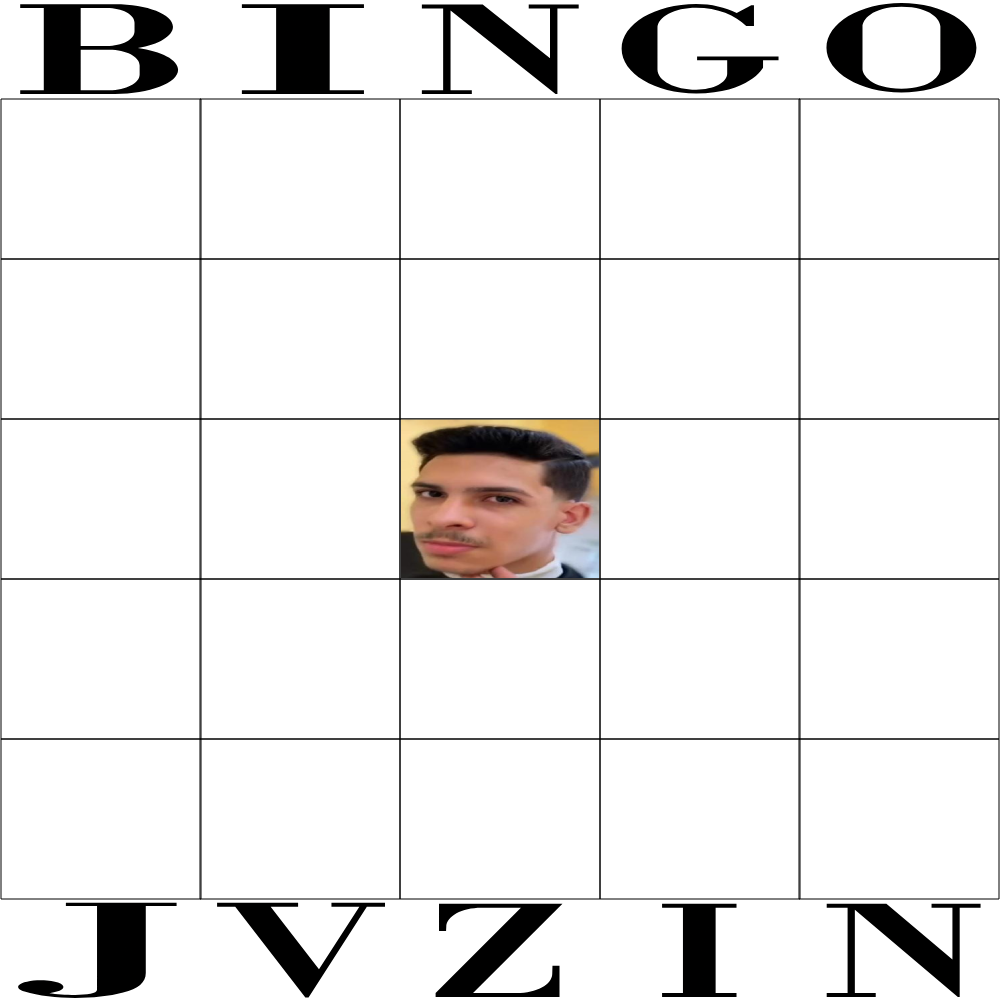
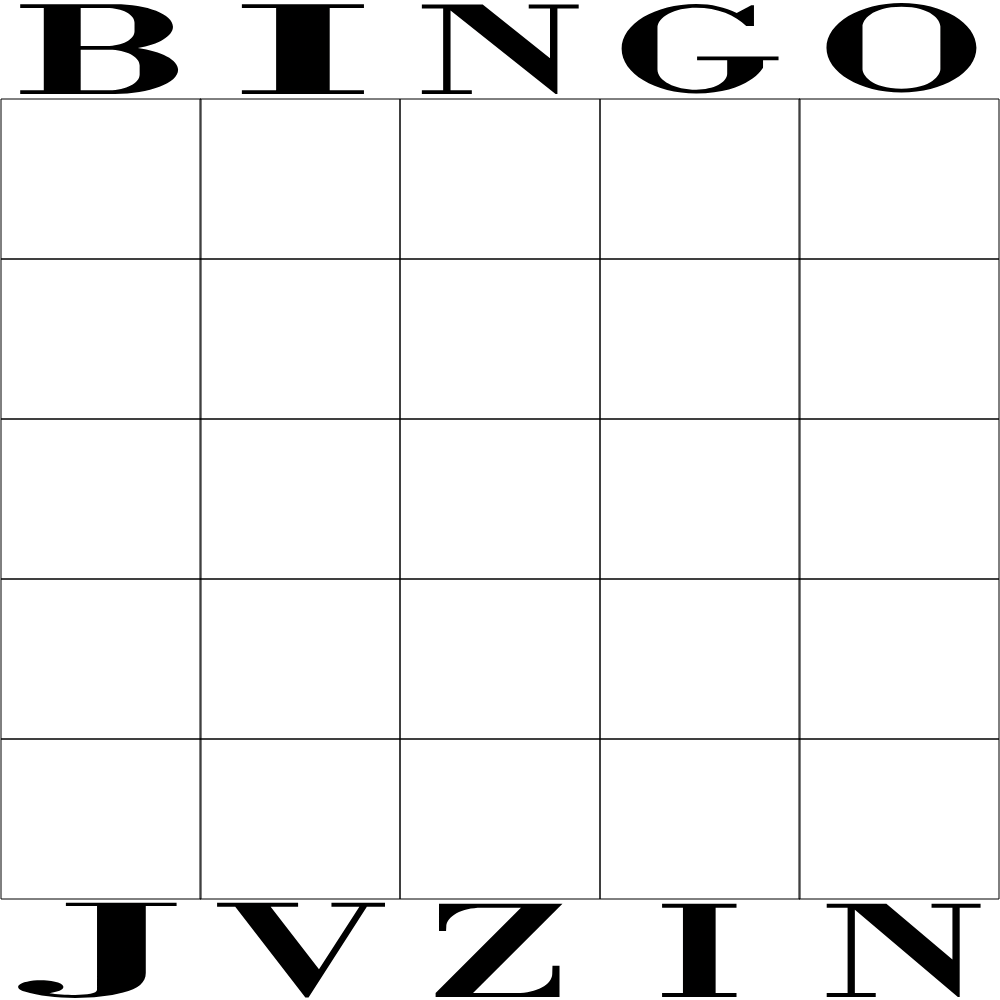
feat: added zustand to jvzin bingo

Changed region(s): [[0.403, 0.403, 0.62, 0.589]]

diff --git a/src/app/jvzin/page.tsx b/src/app/jvzin/page.tsx
@@ -2,66 +2,46 @@
 
 import { useEffect, useState } from "react";
 import Image from "next/image";
-import { Play, Repeat } from "lucide-react";
+import { BrushCleaning, Dices, Play } from "lucide-react";
+import { create } from "zustand";
+import { persist } from "zustand/middleware";
+
+interface BingoState {
+  shuffledTiles: string[];
+  shufflePhoto: number;
+  markedTiles: string[];
+  tileRotations: Record<string, number>;
+  createdAt: number | null;
+  isContinuing: boolean;
+  _hasHydrated: boolean;
+  
+  generateNewBoard: (phrases: string[]) => void;
+  toggleTile: (tile: string, degree: number) => void;
+  resetGame: () => void;
+  setContinuing: (value: boolean) => void;
+  setHasHydrated: (state: boolean) => void;
+}
 
 const bingoPhrases = [
-  "Negao vai se lasca",
-  "Negao vai pro inferno",
-  "Vou ja come um amori",
-  "Oia esse cara",
-  "La ele",
-  "Ah nao, vamo joga no inferno",
-  "Sai dai",
-  ".",
-  "Nau",
-  "E um churras? @André",
-  "Vou já assistir um sobrenatural", 
-  "Pegue na minha caceta", 
-  "Conta aqui pro tio joao vicente", 
-  "É um gtazin @Fredson Luiz @Lyncxxx", 
-  "Ne meu fi não", 
-  "Que isso rpz", 
-  "Rpz, vao se lascar vcs tudin", 
-  "Vai tu, quenga", 
-  "O Lyncu não oferece um copo d'água", 
-  "To fazendo exportação", 
-  "Que porra", 
-  "Vou ja tempera a carne", 
-  "Tenho pai não", 
-  "Vai da esse teu tabaco",
+  "Negao vai se lasca", "Negao vai pro inferno", "Vou ja come um amori", "Oia esse cara", "La ele",
+  "Ah nao, vamo joga no inferno", "Sai dai", ".", "Nau", "E um churras? @André", "Vou já assistir um sobrenatural", 
+  "Pegue na minha caceta", "Conta aqui pro tio joao vicente", "É um gtazin @Fredson Luiz @Lyncxxx", "Ne meu fi não", 
+  "Que isso rpz", "Rpz, vao se lascar vcs tudin", "Vai tu, quenga", "O Lyncu não oferece um copo d'água", "To fazendo exportação", 
+  "Que porra", "Vou ja tempera a carne", "Tenho pai não", "Vai da esse teu tabaco", "Um buiaco na paiede"
 ]
 
 const WINNING_COMBINATIONS: number[][] = [
   // Horizontais
-  [0, 1, 2, 3, 4], 
-  [5, 6, 7, 8, 9], 
-  [10, 11, 12, 13, 14], 
-  [15, 16, 17, 18, 19], 
-  [20, 21, 22, 23, 24],
+  [0, 1, 2, 3, 4], [5, 6, 7, 8, 9], [10, 11, 12, 13, 14], [15, 16, 17, 18, 19], [20, 21, 22, 23, 24],
   // Verticais
-  [0, 5, 10, 15, 20], 
-  [1, 6, 11, 16, 21], 
-  [2, 7, 12, 17, 22], 
-  [3, 8, 13, 18, 23], 
-  [4, 9, 14, 19, 24],
+  [0, 5, 10, 15, 20],  [1, 6, 11, 16, 21], [2, 7, 12, 17, 22], [3, 8, 13, 18, 23], [4, 9, 14, 19, 24],
   // Diagonais
-  [0, 6, 12, 18, 24], 
-  [4, 8, 12, 16, 20],
+  [0, 6, 12, 18, 24], [4, 8, 12, 16, 20],
   // Quinas
   [0, 4, 20, 24],
   // Quadrantes
-  [0, 1, 5, 6], 
-  [1, 2, 6, 7], 
-  [2, 3, 7, 8], 
-  [3, 4, 8, 9],
-  [5, 6, 10, 11], 
-  [8, 9, 13, 14],
-  [10, 11, 15, 16], 
-  [13, 14, 18, 19],
-  [15, 16, 20, 21], 
-  [16, 17, 21, 22], 
-  [17, 18, 22, 23], 
-  [18, 19, 23, 24],
+  [0, 1, 5, 6], [1, 2, 6, 7], [2, 3, 7, 8], [3, 4, 8, 9], [5, 6, 10, 11], [8, 9, 13, 14], [10, 11, 15, 16], 
+  [13, 14, 18, 19], [15, 16, 20, 21], [16, 17, 21, 22], [17, 18, 22, 23], [18, 19, 23, 24],
   // Cartela cheia
   [0, 1, 2, 3, 4, 5, 6, 7, 8, 9, 10, 11, 12, 13, 14, 15, 16, 17, 18, 19, 20, 21, 22, 23, 24] 
 ]
@@ -71,83 +51,105 @@ const getDegree = () => {
   return degrees[Math.floor(Math.random() * degrees.length)];
 }
 
+const checkWin = (currentMarked: string[], shuffledTiles: string[]) => {
+  if (shuffledTiles.length === 0) return false;
+
+  const isIndexMarked = (index: number) => {
+    if (index === 12) return true;
+    const tileText = index > 12 ? shuffledTiles[index - 1] : shuffledTiles[index];
+    return currentMarked.includes(tileText);
+  }
+
+  return WINNING_COMBINATIONS.some(combo => combo.every(isIndexMarked));
+}
+
+const useBingoStore = create<BingoState>()(
+  persist(
+    (set, get) => ({
+      shuffledTiles: [],
+      shufflePhoto: 1,
+      markedTiles: [],
+      tileRotations: {},
+      createdAt: null,
+      isContinuing: false,
+      _hasHydrated: false,
+
+      generateNewBoard: (phrases: string[]) => {
+        const shuffled = [...phrases];
+        for (let i = shuffled.length - 1; i > 0; i--) {
+          const j = Math.floor(Math.random() * (i + 1));
+          [shuffled[i], shuffled[j]] = [shuffled[j], shuffled[i]];
+        }
+        
+        set({
+          shuffledTiles: shuffled,
+          shufflePhoto: Math.floor(Math.random() * 11) + 1,
+          markedTiles: [],
+          tileRotations: {},
+          createdAt: Date.now(),
+          isContinuing: false,
+        });
+      },
+
+      toggleTile: (tile: string, degree: number) => {
+        const { markedTiles, tileRotations } = get();
+        const isMarked = markedTiles.includes(tile);
+
+        if (isMarked) {
+          set({ markedTiles: markedTiles.filter((t: string) => t !== tile) });
+        } else {
+          set({
+            markedTiles: [...markedTiles, tile],
+            tileRotations: { ...tileRotations, [tile]: degree }
+          });
+        }
+      },
+
+      resetGame: () => set({ markedTiles: [], tileRotations: {}, isContinuing: false }),
+      setContinuing: (value: boolean) => set({ isContinuing: value }),
+      setHasHydrated: (state: boolean) => set({ _hasHydrated: state }),
+    }),
+    { 
+      name: '@jvzin-bingo-storage',
+      onRehydrateStorage: () => (state) => {
+        state?.setHasHydrated(true);
+      }
+    }
+  )
+)
+
 export default function JvzinBingoPage() {
-  const [shuffledTiles, setShuffledTiles] = useState<string[]>([]);
-  const [markedTiles, setMarkedTiles] = useState<string[]>([]);
-  const [shufflePhoto, setShufflePhoto] = useState<number>(1);
-  const [tileRotations, setTileRotations] = useState<Record<string, number>>({});
-  const [hasWon, setHasWon] = useState<boolean>(false);
-  const [showVictoryScreen, setShowVictoryScreen] = useState<boolean>(false);
-  const [isFullCard, setIsFullCard] = useState<boolean>(false);
-  const [isContinuing, setIsContinuing] = useState<boolean>(false);
-
-  const handleMarkTile = (tile: string) => {
-    let newMarkedTiles: string[];
-    let isAdding = false;
-
-    if (!markedTiles.includes(tile)) {
-      newMarkedTiles = [...markedTiles, tile];
-      isAdding = true;
-    } else {
-      newMarkedTiles = markedTiles.filter(t => t !== tile);
-    }
-
-    const currentHasWon = checkWin(newMarkedTiles);
-    const currentIsFullCard = newMarkedTiles.length === shuffledTiles.length;
-    
-    let currentIsContinuing = isContinuing;
-
-    if (!currentHasWon) {
-      currentIsContinuing = false;
-      setIsContinuing(false);
-    }
-
-    setMarkedTiles(newMarkedTiles);
-    setHasWon(currentHasWon);
-    setIsFullCard(currentIsFullCard);
-    
-    setShowVictoryScreen((currentHasWon && !currentIsContinuing) || currentIsFullCard);
-
-    if (isAdding) {
-      setTileRotations(prev => ({
-        ...prev,
-        [tile]: getDegree()
-      }));
-    }
-  }
-
-  const checkWin = (currentMarked: string[]) => {
-    if (shuffledTiles.length === 0) return false;
-
-    const isIndexMarked = (index: number) => {
-      if (index === 12) return true; 
-      const tileText = index > 12 ? shuffledTiles[index - 1] : shuffledTiles[index];
-      return currentMarked.includes(tileText);
-    }
-
-    return WINNING_COMBINATIONS.some(combo => combo.every(isIndexMarked));
-  }
+  const store = useBingoStore();
 
   useEffect(() => {
-    function shuffleArray(array: string[]) {
-      const newArray = [...array];
-      for (let i = newArray.length - 1; i > 0; i--) {
-        const j = Math.floor(Math.random() * (i + 1));
-        [newArray[i], newArray[j]] = [newArray[j], newArray[i]];
+    if (store._hasHydrated) {
+      const TWENTY_FOUR_HOURS = 24 * 60 * 60 * 1000;
+      
+      if (!store.createdAt || (Date.now() - store.createdAt > TWENTY_FOUR_HOURS)) {
+        store.generateNewBoard(bingoPhrases);
       }
-      return newArray;
     }
+  }, [store._hasHydrated]);
 
-    const shuffled = shuffleArray(bingoPhrases);
-    setShufflePhoto(Math.floor(Math.random() * 11) + 1);
-    setShuffledTiles(shuffled);
-  }, []);
+  const hasWon = checkWin(store.markedTiles, store.shuffledTiles);
+  const isFullCard = store.markedTiles.length === 24;
+  const showVictoryScreen = (hasWon && !store.isContinuing) || isFullCard;
+
+  useEffect(() => {
+    if (!hasWon && store.isContinuing) {
+      store.setContinuing(false);
+    }
+  }, [hasWon, store.isContinuing, store]);
+
+  if (!store._hasHydrated || store.shuffledTiles.length === 0) {
+    return <div className="min-h-dvh flex items-center justify-center bg-zinc-900" />;
+  }
 
   return (
     <div className="flex flex-col items-center justify-center min-h-dvh p-2 sm:p-4">
       <div className="relative w-full max-w-[800px] aspect-square">
         <Image
-          src={"/bingo-jvzin-without-p.png"}
+          src={"/bingo-jvzin.png"}
           alt="Jvzin Bingo"
           fill
           className="object-contain"
@@ -166,10 +168,10 @@ export default function JvzinBingoPage() {
                 >
                   <div className="relative w-[100%] h-[100%]">
                     <Image
-                      src={`/jvzin${shufflePhoto}.png`}
+                      src={`/jvzin${store.shufflePhoto}.png`}
                       alt="Jvzin Bingo"
                       fill
-                      className="object-fill hover:scale-505 transition-all ease-in-out duration-300"
+                      className="object-fill hover:scale-500 transition-all ease-in-out duration-300"
                       priority
                     />
                   </div>
@@ -178,17 +180,17 @@ export default function JvzinBingoPage() {
             }
 
             const tileIndex = index > 12 ? index - 1 : index;
-            const tile = shuffledTiles[tileIndex];
+            const tile = store.shuffledTiles[tileIndex];
 
             if (!tile) return <div key={`empty-${index}`} />;
 
-            const isMarked = markedTiles.includes(tile);
+            const isMarked = store.markedTiles.includes(tile);
 
             return (
               <div
                 key={tile}
-                onClick={() => handleMarkTile(tile)}
-                className={"relative cursor-pointer transition-all ease-in-out duration-300 flex items-center justify-center"}
+                onClick={() => store.toggleTile(tile, getDegree())}
+                className={"relative cursor-pointer transition-all ease-in-out duration-300 flex items-center justify-center hover:scale-110"}
               >
                 {isMarked && (
                   <div className="absolute inset-0 z-30 transition-all ease-in-out duration-300">
@@ -197,29 +199,43 @@ export default function JvzinBingoPage() {
                       alt="Milho"
                       fill
                       className="object-fill hover:opacity-20 transition-all ease-in-out duration-300"
-                      style={{ transform: `rotate(${tileRotations[tile] || 0}deg)` }}
+                      style={{ transform: `rotate(${store.tileRotations[tile] || 0}deg)` }}
                       priority
                     />
                   </div>
                 )}
                 
-                <p className={`relative z-10 w-full px-1 text-[8px] sm:text-xs md:text-sm font-bold 
-                  items-center justify-center text-center line-clamp-3 hover:scale-115 transition-all`
+                <p className={`relative z-10 w-full px-3 text-[8px] sm:text-xs md:text-sm 
+                  font-bold items-center justify-center text-center line-clamp-3`
                 }>
                   {tile}
                 </p>
               </div>
-            );
+            )
           })}
         </div>
       </div>
 
-      {showVictoryScreen && hasWon && (
-        <div className="fixed inset-0 flex flex-col justify-center items-center bg-purple-200/90 z-50 px-4">
+      <div className="mt-1">
+        <button
+          type="button"
+          onClick={() => store.generateNewBoard(bingoPhrases)}
+          className={`flex gap-2 items-center justify-center px-6 py-2 rounded-xl cursor-pointer 
+            bg-zinc-200 hover:bg-zinc-300 text-zinc-700 hover:text-zinc-900 font-bold hover:shadow-lg transition-all
+          `}
+        >
+          <Dices className="w-5 h-5" /> Gerar nova cartela
+        </button>
+      </div>
+
+      {showVictoryScreen && (
+        <div className="fixed inset-0 flex flex-col justify-center items-center bg-purple-200/95 z-50 px-4">
           <div className="flex flex-col items-center justify-center mb-6">
-            <h1 className="text-center text-3xl md:text-5xl font-black">BINGOOOO!!!</h1>
-            <p className="text-center font-medium mt-2 text-sm md:text-base">
-              {isFullCard ? "Você marcou a cartela inteira!" : "Parabéns pela conquista!"} Resgate seu prêmio abaixo.
+            <h1 className="text-center text-3xl md:text-6xl font-black">
+              BINGOOOO!!!
+            </h1>
+            <p className="text-center font-bold mt-2 text-sm md:text-base">
+              {isFullCard ? "Você marcou a cartela inteira!" : "Parabéns pela conquista! Ele está pronto..."} Resgate seu prêmio abaixo.
             </p>
           </div>
 
@@ -237,30 +253,24 @@ export default function JvzinBingoPage() {
             <button
               type="button"
               onClick={() => {
-                setMarkedTiles([]);
-                setHasWon(false);
-                setIsFullCard(false);
-                setIsContinuing(false);
-                setShowVictoryScreen(false);
+                isFullCard && store.toggleTile(store.markedTiles[store.markedTiles.length - 1], 0);
+                store.setContinuing(true)
               }}
-              className={`flex gap-2 items-center justify-center px-6 py-3 rounded-xl cursor-pointer 
-                bg-zinc-700 hover:bg-zinc-800 font-bold text-zinc-50 shadow-lg transition-all
-              `}
-            >
-              <Repeat className="w-5 h-5" /> Repetir
-            </button>
-
-            <button
-              type="button"
-              onClick={() => {
-                setIsContinuing(true);
-                setShowVictoryScreen(false); 
-              }}
-              className={`flex gap-2 items-center justify-center px-6 py-3 rounded-xl cursor-pointer 
+              className={`flex gap-2 items-center justify-center px-6 py-2 rounded-xl cursor-pointer 
                 bg-purple-900 hover:bg-purple-950 font-bold text-zinc-50 shadow-lg transition-all
               `}
             >
               <Play className="w-5 h-5" /> Continuar
+            </button>
+
+            <button
+              type="button"
+              onClick={() => store.resetGame()}
+              className={`flex gap-2 items-center justify-center px-6 py-2 rounded-xl cursor-pointer 
+                bg-zinc-700 hover:bg-zinc-800 font-bold text-zinc-50 shadow-lg transition-all
+              `}
+            >
+              <BrushCleaning className="w-5 h-5" /> Limpar e manter cartela
             </button>
           </div>
         </div>
